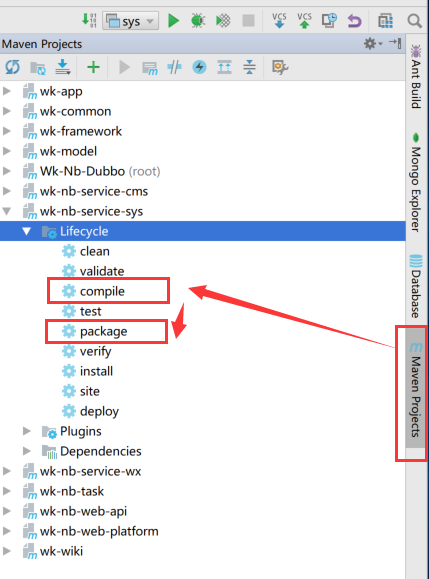
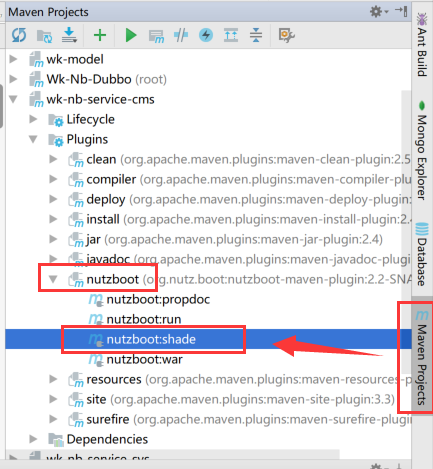
update: 使用 nutzboot-maven-plugin 插件,不需要在pom.xml里配主类了

diff --git a/wk-wiki/01.QuickStart/01.04.Deploy.md b/wk-wiki/01.QuickStart/01.04.Deploy.md
@@ -8,15 +8,16 @@
 
 * 当然也可以在命令行进行打包
 
-  D:\NutzWk5\wk-app\wk-nb-service-sys>mvn compile
+  D:\NutzWk5\wk-app\wk-nb-service-sys>mvn clean package nutzboot:shade
   
-  D:\NutzWk5\wk-app\wk-nb-service-sys>mvn package
 
 * 以 wk-nb-service-sys-5.0.1-SNAPSHOT.jar 为例，重命名为 sys.jar
 
-  执行  jar  -Dnutz.profiles.active=prod -jar sys.jar &
+  执行  jar  -Xmx512m -Xms512m -Dnutz.profiles.active=prod -jar sys.jar &
 
 * 也可以编写脚本，以下是某个项目的脚本示例 start_water_jars.sh
+
+* 详见：[https://github.com/nutzam/nutzboot-maven-plugin](https://github.com/nutzam/nutzboot-maven-plugin)
 
 ```text
 #!/bin/bash

diff --git a/wk-wiki/01.QuickStart/01.02.Start.md b/wk-wiki/01.QuickStart/01.02.Start.md
@@ -1,3 +1,11 @@
+## Maven命令启动
+
+* 项目根目录执行: mvn install
+
+* 直接运行 mvn compile nutzboot:run
+
+* 详见：[https://github.com/nutzam/nutzboot-maven-plugin](https://github.com/nutzam/nutzboot-maven-plugin)
+
 ## IDEA配置启动
 
 * 项目根目录执行: mvn install
